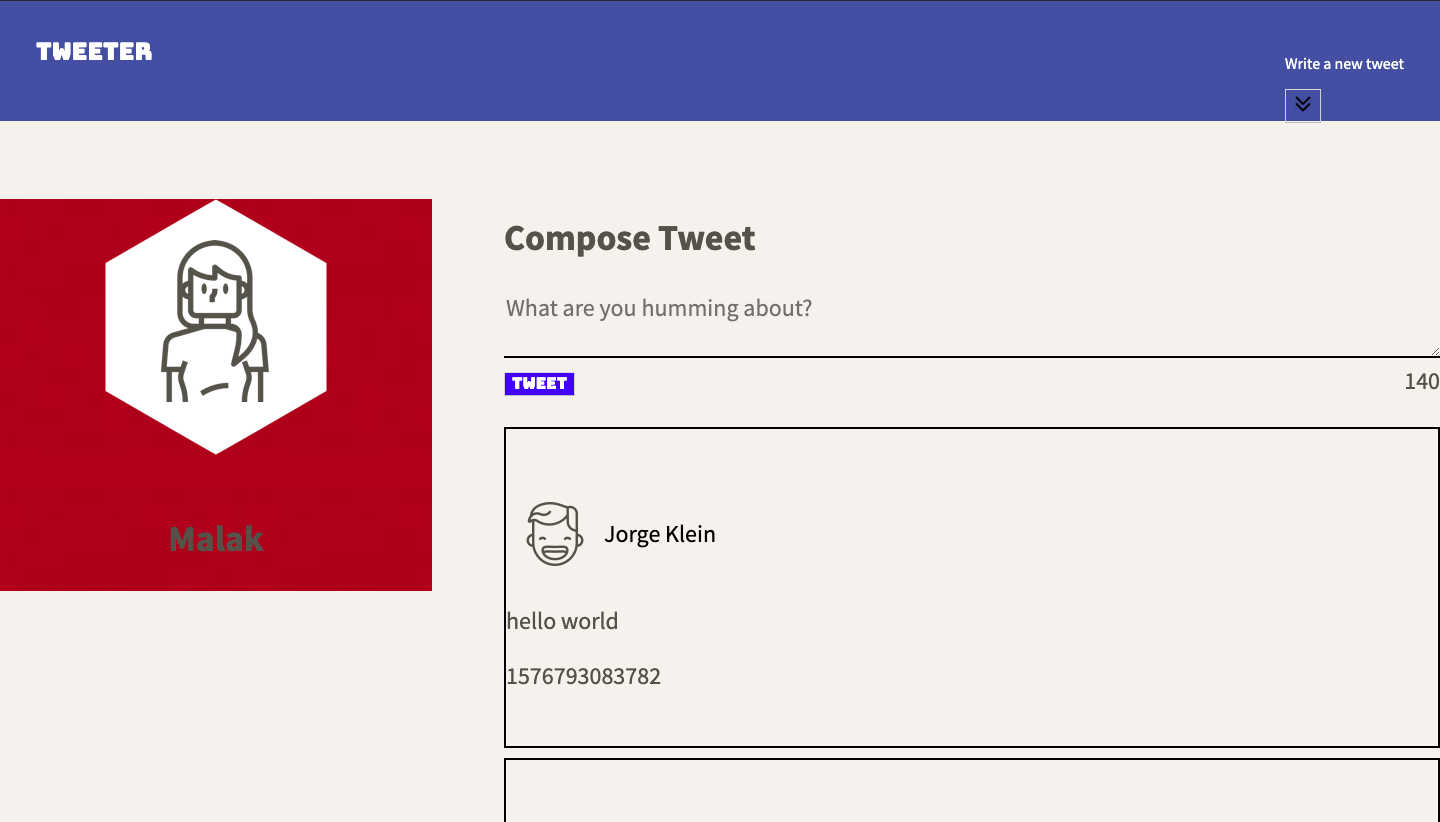
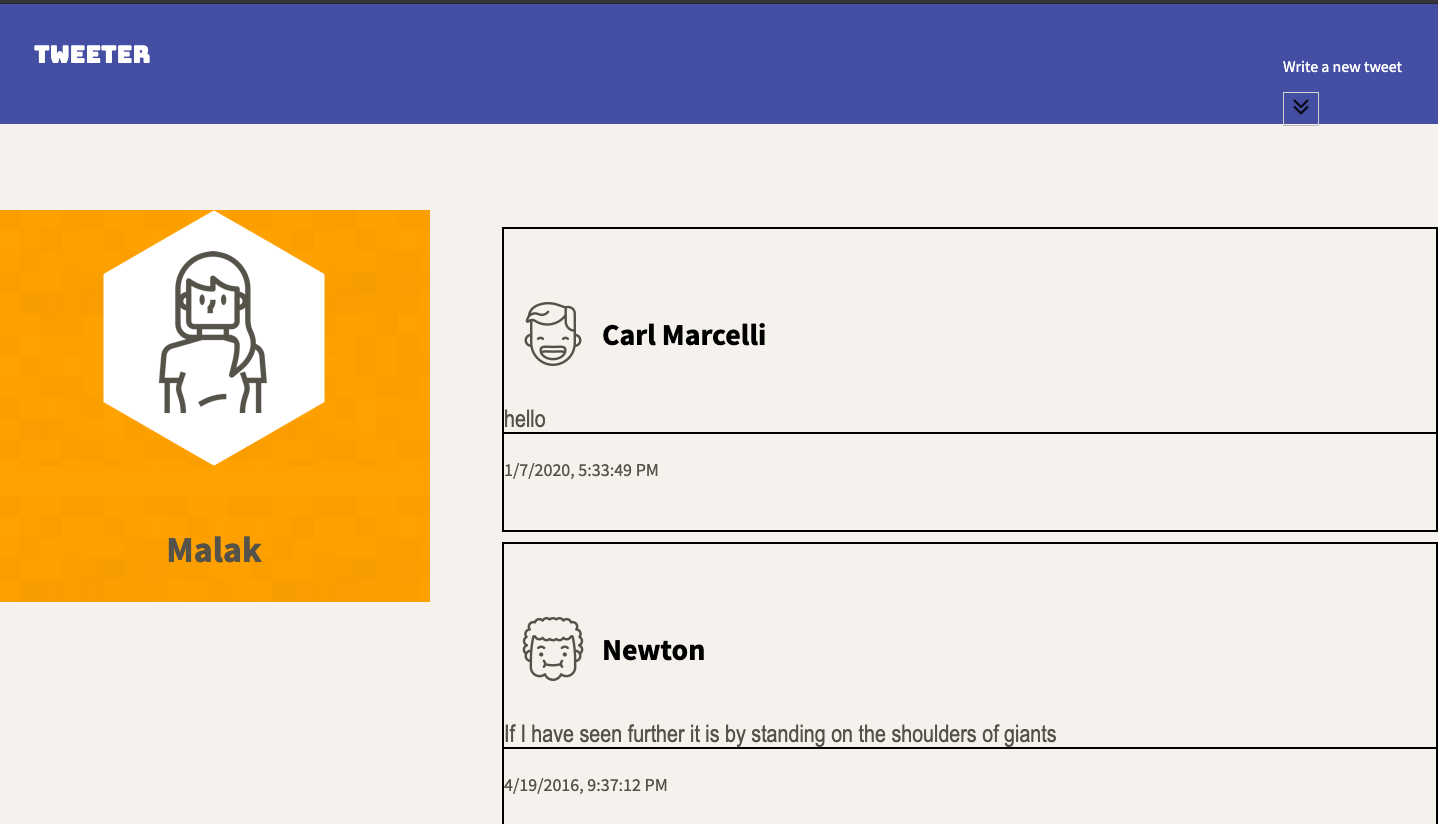
add comments - styling changes

diff --git a/public/scripts/client.js b/public/scripts/client.js
@@ -1,20 +1,21 @@
 
+// render tweet's list at the UI 
 const renderTweets = function (tweets) {
   for (const tweet of tweets) {
     $('#tweet_list').prepend(createTweetElement(tweet))
   }
 }
-
+// create a new tweet 
 const createTweetElement = function (tweet) {
   const $tweet = $('<article>')
   const $head = $('<header>');
   $('<img>').attr('src', tweet.user.avatars).appendTo($head);
   $('<span>').addClass('name').text(tweet.user.name).appendTo($head)
-  $('<span>').addClass('handel').text(tweet.user.handle).appendTo($head);
+  $('<span>').addClass('handle').text(tweet.user.handle).appendTo($head);
   $head.appendTo($tweet);
-  $('<p>').text(tweet.content.text).appendTo($tweet);
+  $('<p id="textStyle">').text(tweet.content.text).appendTo($tweet);
   const $footer = $('<footer>')
-  $('<p>').text(tweet.created_at).appendTo($footer);
+  $('<p>').text(new Date(tweet.created_at).toLocaleString()).appendTo($footer);
   $footer.appendTo($tweet);
   $('<br>').appendTo($tweet)
   return $tweet;
@@ -33,10 +34,13 @@ const postTweet = (method, url, data) => {
       console.log(`Error with the request: ${error.message}`);
     })
 }
+// hide/show new tweet area (toggle button)
 $(document).ready(function () {
   $("#button").click(function () {
     $(".new-tweet").slideToggle();
   });
+
+
   const loadTweets = function (method, url) {
     $.ajax({
       method,
@@ -49,17 +53,23 @@ $(document).ready(function () {
         console.log(`Error with the request: ${error.message}`);
       })
   }
+
   loadTweets('GET', '/tweets');
+  // validating the lenght of the tweet whether if it's over the limits or empty 
   $('#tweetForm').on('submit', function (event) {
     event.preventDefault();
     let str = $(this).serialize();
-    if (str === "text=") {
-      $("#errormessage").slideDown().text("You can not send an empty tweet");
-    } else { $("#errormessage").hide() }
     if (str.length > 140) {
-      $("#errormessage").slideDown().text("Too long ,please respect our arbitrary limit of 140 chars");
-    } else { $("#errormessage").hide(); }
-    postTweet('POST', '/tweets', str);
+      $("#errormessage").slideDown().text("Too long, please respect our arbitrary limit of 140 chars.").prepend('<img src="https://cdn2.iconfinder.com/data/icons/freecns-cumulus/32/519791-101_Warning-512.png" />');
+    } else if (str === "text=") {
+      $("#errormessage").slideDown().text("You can not send an empty tweet").prepend('<img src="https://cdn2.iconfinder.com/data/icons/freecns-cumulus/32/519791-101_Warning-512.png" />').
+        $("#errormessage").show()
+
+    } else {
+      $("#errormessage").hide()
+      postTweet('POST', '/tweets', str);
+    }
+
   })
 })
 

diff --git a/public/styles/new-tweet.css b/public/styles/new-tweet.css
@@ -25,6 +25,7 @@ float: right;
 margin-bottom: 10px;
 }
 
+
 #tweet_list header {
   height: 120px;
   width: 100%;
@@ -40,17 +41,25 @@ margin-bottom: 10px;
   color: black;
   display: inline-block;
   vertical-align: middle;
-  
+  font-weight: bold;
+  font-size: 30px; 
 }
-.handel{
+#textStyle{
+  border: none;
+  border-bottom: 2px solid black;
+  font-family: 'Franklin Gothic Medium', 'Arial Narrow', Arial, sans-serif;
+}
+.handle{
   padding:10px;
   float:right;
   color: #f4f1ec;
 }
 article:hover{
-  box-shadow: 11px 11px blue;
+  -moz-box-shadow:    3px 3px 5px 6px orange;
+  -webkit-box-shadow: 3px 3px 5px 6px orange ;
+  box-shadow:         3px 3px 5px 6px orange;
 }
-article:hover .handel {
+article:hover .handle {
   color: black;
 }
 #image{
@@ -74,7 +83,14 @@ button:hover{
 }
 #errormessage {
   display: none;
+  border-radius: 25px;
   border: 2px solid red;
   color:red;
+  background-color:white;
   text-align: center;
+}
+#errormessage img {
+  height: 30px;
+  width: 30px;
+  
 }

diff --git a/public/styles/header.css b/public/styles/header.css
@@ -1,7 +1,7 @@
 header{
   height: 400px;
   width: 100%;
-  background-color: brown;
+  background-color: orange;
 }
 
 .im{
@@ -16,7 +16,7 @@ background-image: url("https://www.transparenttextures.com/patterns/transparent-
   display: flex;
   justify-content:space-between;
 width: 100%;
-  background-color: brown;
+  background-color: orange;
   width: 100%;
 }
 header{

diff --git a/server/routes/tweets.js b/server/routes/tweets.js
@@ -31,7 +31,6 @@ module.exports = function (DataHelpers) {
       },
       created_at: Date.now()
     };
-
     DataHelpers.saveTweet(tweet, (err) => {
       if (err) {
         res.status(500).json({ error: err.message });

diff --git a/public/styles/layout.css b/public/styles/layout.css
@@ -16,6 +16,7 @@ body {
 }
 #na{
   font-family:'Bungee', cursive;
+
 }
 .container{
   width: 90%;
@@ -23,4 +24,6 @@ body {
   margin-right: auto;
 
 }
-
+footer{
+  font-size: 18px;
+}

diff --git a/public/scripts/composer-char-counter.js b/public/scripts/composer-char-counter.js
@@ -1,3 +1,4 @@
+// setting the max limit of chars per tweet
 $(document).ready(function () {
   $('textarea').on('keyup', function (event) {
     if (this.value.length > 140) {

diff --git a/README.md b/README.md
@@ -12,9 +12,9 @@ This repository is the starter code for the project: Students will fork and clon
 3. Start the web server using the `npm run local` command. The app will be served at <http://localhost:8080/>.
 4. Go to <http://localhost:8080/> in your browser.
 ## Screenshots
-!["Screenshot of tweet compose box"](https://github.com/malak-dev/tweeter/blob/master/docs/tweet-box.png?raw=true)
-!["screenshot of desktop_version"](https://github.com/malak-dev/tweeter/blob/master/docs/main_desktop_version.png?raw=true)
-!["Screenshot of tablet_version](https://github.com/malak-dev/tweeter/blob/master/docs/tablet_version.png?raw=true)
+!["Screenshot of tweet main page where you can add a new tweet"]()
+!["screenshot of desktop_version where you can use the app in your PC"]()
+!["Screenshot of tablet_version where you can open the app on your tablet "]()
 
 ## Dependencies
 
